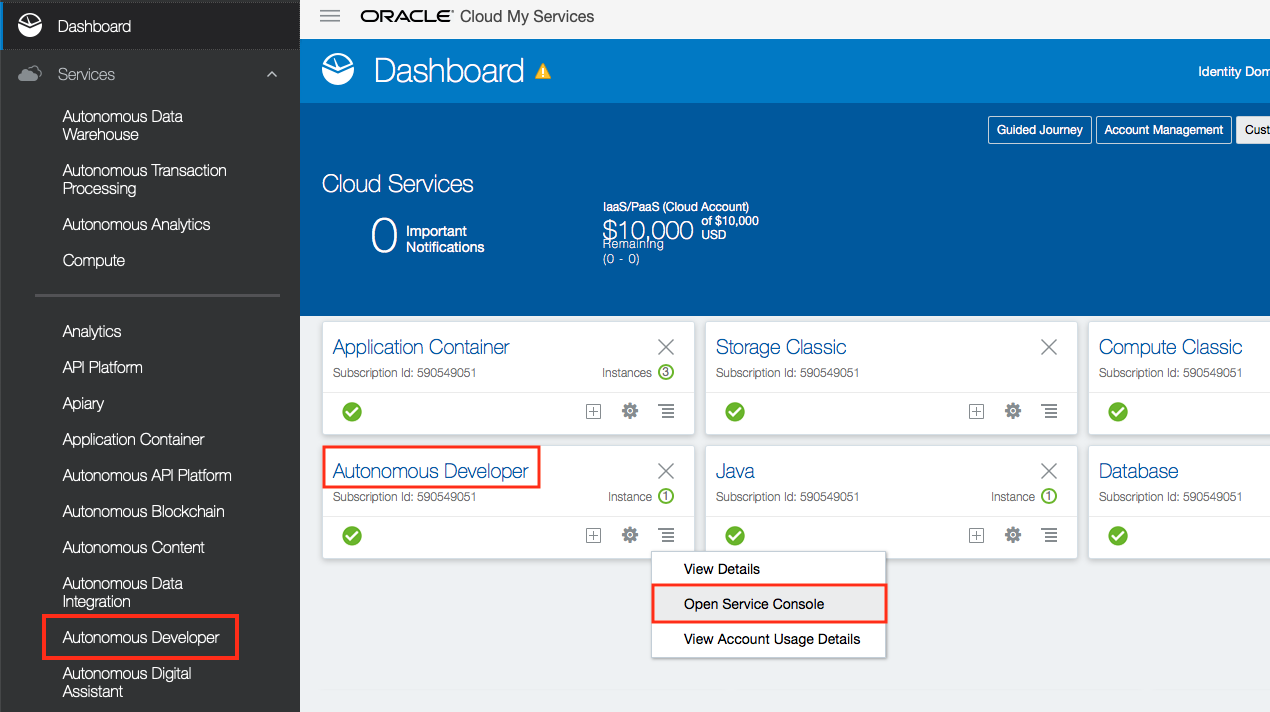
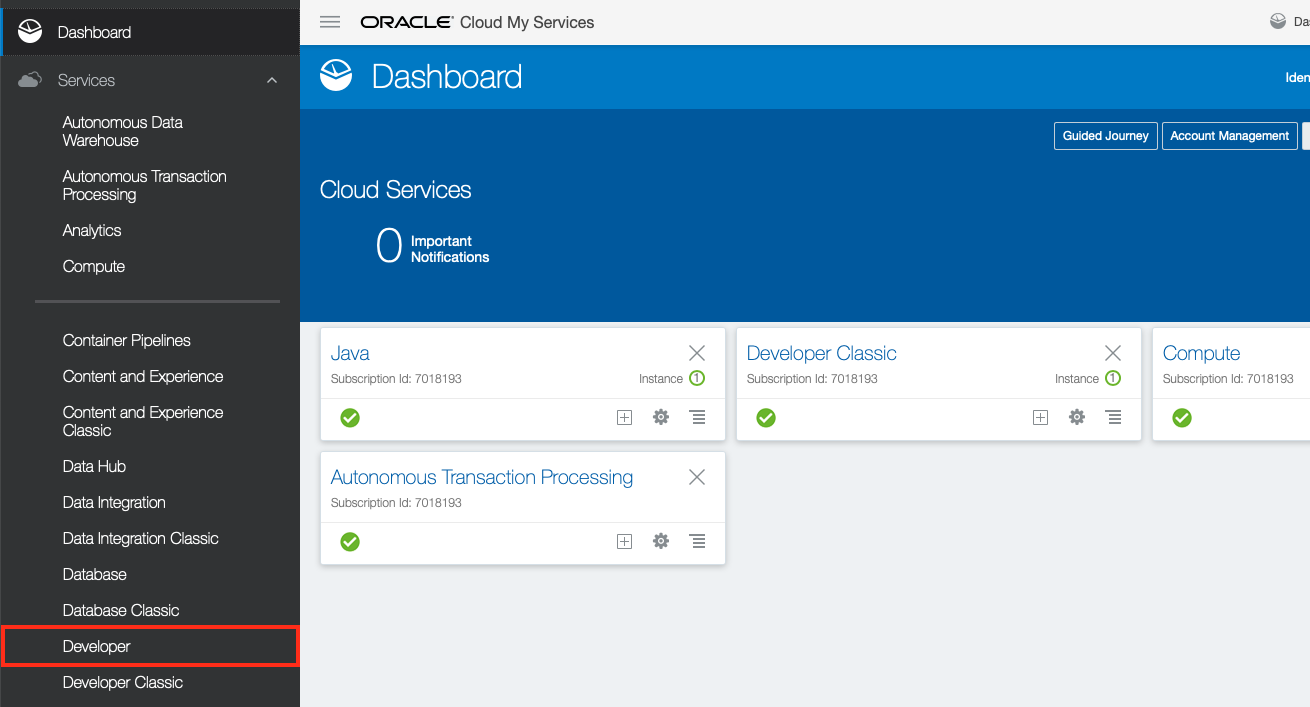
Updated DevCS provisioning for OCI Build VM

diff --git a/100-PREPARElab.md b/100-PREPARElab.md
@@ -204,70 +204,132 @@ When the request has been accepted, the Java Cloud Service Console page appears 
 
 ## Provision a Developer Cloud Service (DevCS)
 
-You have two choices for Developer Cloud Service:
+Like other Oracle Cloud services, you must create an instance of Developer Cloud Service (DevCS) before you can start using it. You can create only one instance in an identity domain.
 
-  - Traditional Developer Cloud Service
-  - Autonomous Developer Cloud Service
+There are two types of Developer Cloud Services on offer depending whether you are an Oracle Cloud Infrastructure (OCI) user or an Oracle Cloud Infrastructure Classic (OCI Classic) user. The two types of Developer Cloud Services are:
 
-It is recommended to use the Autonomous Developer Cloud Service as it offers a dedicated Build VM for your build jobs. This has significant performance improvement over the Traditional Developer Cloud Service and would result in much faster build time. The use of the Autonomous Developer Cloud Service is particularly important as one would see the full potential of our service and would bring out the key benefits in Continuous Integration and Continuous Delivery.
+  - Traditional Developer Cloud Service (OCI Classic)
+  - Autonomous Developer Cloud Service (OCI)
 
-Oracle Developer Cloud Build VMs runs on Oracle Linux 6 or Oracle Linux 7, and supports a variety of software such as Node.js, Docker, and Oracle SOA Suite. The platform and the software in Build VMs are defined by Build VM templates.
+For new Oracle Cloud accounts, user will be of type OCI and should use the Autonomous Developer Cloud Service. For this lab we will assume the participants is an OCI user and the instruction that follows is for the Autonomous Developer Cloud Service.
 
-Since the Build VM is Compute instance, this can be shared among developers. This mean we not required one dedicated Build VM for each developer or attendee. Only need a few Build VM to be shared across the project team or participants. Hence, we have already provisioned the Build VMs for you.
+The Autonomous Developer Cloud Service offers a dedicated Build VM running on OCI for your build jobs. This has significant performance improvement over the Traditional Developer Cloud Service and would result in much faster build time. Oracle Developer Cloud Build VMs runs on Oracle Linux 6 or Oracle Linux 7, and supports a variety of software such as Node.js, Docker, and Oracle SOA Suite. The platform and the software stack in Build VMs are defined by the Build VM templates.
+
+Since the Build VM is Compute instance, this can be shared among developers. This mean we do not require a dedicated Build VM for each developer or attendee as it can be shared among the team. For this workshop we would only require a few Build VMs to be shared across the participants. The Build VMs has been created for you and the instruction that follows is for your reference, unless told otherwise by your instructor.
 
 
 
-### **STEP 4**: Open the Autonomous Developer Cloud Console
+### **STEP 4**: Create a   Developer Cloud Instance
 
-- Ensure you are opening the Autonomous DevCS and NOT the Traditional DevCS
+- Go back to your Dashboard page.
 
-- On the dashboard click the hamburger icon on the **Autonomous Developer** tile. Select **Open Service Console** OR select from the expanded Dashboard menu on the left hand side.
+- If the Developer tile isn’t available on the Dashboard, expand the Dashboard menu on the left and select **Developer**
 
   ![](images/14.png)
 
+- In the Instances tab, click **Create Instance**.
+
+  ![](images/14.1.png)
+
+- On the **Create New Instance** page, enter the following details:
+
+  - **Instance Name**: `A unique name` to identify the service instance in the tenant domain.
+  - **Description**: `Enter a description`
+  - **Region**: `Select your region` from the dropdown list. Choose from us-ashburn-1, us-phoenix-1, us-frankfurt-1.
+
+  ![](images/14.2.png)
+
+- Click **Next**
+
+- On the Service Details page, click **Next**
+
+  ![](images/14.3.png)
+
+- On the Confirmation page, click **Create**
+
+- The DevCS **Organization** page opens showing your DevCS instance
 
 
-#### **STEP 4.1**: Create a VM Template
+**NOTE**: You have just created a DevCS instance.
+
+
+
+
+#### **STEP 4.1**: Setup The OCI Connection
+
+You need to connect to the Oracle Cloud Infrastructure Compute (OCI Compute) because they provide the virtual machines (VMs) on which DevCS runs its builds. You need to connect to Oracle Cloud Infrastructure Object Storage (OCI Object Storage) because they are used to store build and Maven artifacts for DevCS projects. It is assumed you are an OCI user and have the access rights to set up connections to OCI Compute and OCI Object Storage.
+
+- Once the service instance is created, you can open the service console by clicking the **Action menu icon**, and then selecting **Access Service Instance**.
+
+  ![](images/14.4.png)
+
+- The DevCS **Organization** page opens. Click the **OCI Credentials** to configure OCI connections before you create a project. You must be the Organization Administrator to create the connection.
+
+  ![](images/14.5.png)
+
+- Get the OCI input values from the your OCI Console and enter them in the following fields:
+
+  - **Tennacy OCID**: enter the tenancy's OCID copied from the Tenancy Details page
+  - **User OCID**: enter the user's OCID who can access the DevCS compartment
+  - **Home Region**: select the home region of the OCI account
+  - **Private Key**: enter the private key of the user who can access the DevCS compartment
+  - **Passphrase**: enter the passphrase used to encrypt the private key. If no passphrase was used, leave the field empty.
+  - **Fingerprint**: enter the fingerprint value of the private-public key pair
+  - **Compartment OCID**: enter the compartment's OCID copied from the Compartments page
+  - **Storage Namespace**: enter the storage namespace copied from the Tenancy Details page
+  - **Developer Cloud Service ...**: select the checkbox to agree to terms and conditions
+
+  ![](images/14.6.png)
+
+- Click **Validate**
+
+- After validating the connection details, click **Save**
+
+
+
+#### **STEP 4.2**: Create a VM Template
+
+A Build Virtual Machine (VM) is an OCI Compute VM that runs builds of jobs defined in the DevCS projects. A Build VM Template defines the operating system and the software installed on Build VMs.
+
+When you configure a job to use a software, such as Node.js or Docker, you must create a Build VM template with the software and associate the job with that template. When a job’s build runs, it doesn’t run in DevCS, but on a VM of OCI Compute, as configured in the previous step.
+
+To get started, you first create Build VM templates with different software that your team members regularly use. After creating the templates, you allocate some Build VMs to each Build VM template. When your team members create jobs, they associate the job with a Build VM template.
+
+When a job’s build runs, a Build VM allocated for the job’s Build VM template starts. It first installs the software defined in the Build VM template. After installing the software, it clones the job’s Git repository (if configured) to the VM, and creates artifacts (again, if configured). After the build is complete, the artifacts are copied to the OCI Object Storage. The Build VM waits for some time for any queued builds. If no builds run in the wait time period, the Build VM stops. Each time the Build VM starts, the software are installed again and the first build of the VM would take more time to run.
 
 In this section, you learn how to create a basic Build VM template that includes the minimum required software.
 
-- Select **Organization** from the user name dropdown options
+- Select the **Virtual Machines Templates** tab from the **Organization** page
 
   ![](images/15.png)
 
-- Click **VM TEMPLATES** on the Organization Administration page
+- Click **Create**
 
-  ![](images/16.png)
+- On the pop up **New VM Template** dialog box enter the following:
 
-- Click **New Template** in the Build VM Templates page
-
-  ![](images/79.png)
-
-- In the New VM Template dialog box, enter the following details:
-
-  - **Name**: `Your Name` enter your name
+  - **Name**: `CafeSupremo`
   - **Description**: `A Build VM template with minimum required software`
   - **Platform**: `Oracle Linux 7`
 
-    ![](images/20.png)
+  ![](images/16.png)
 
 - Click **Create**
 
-A Build VM template with your name **Your Name** is created. It includes just the required Build VM components. The right side of the page displays the details for this Build VM.
+**NOTE**: You have created a Build VM Template with the minimal build components.
 
 
 
-#### **STEP 4.2**: Configure the Software of a Build VM Template
+#### **STEP 4.3**: Configure the Software of a Build VM Template
 
-The VM template contains the minimum software required to run basic builds. We need to add additional software to the template in order to build our JET UI frontend.
+The VM template contains the minimum software required to run basic builds. We need to add additional software to the template in order to build our JET UI frontend. The additional components are Grandle and Node.js.
 
-  - In the **Build VM Templates** tab, select the template you just created.
+  - Select the `CafeSupremo` template you just created under the **Virtual Machines Templates** tab
 
-  - On the right side of the page, click **Configue Software**
+  - Click **Configue Software**
 
   ![](images/17.png)
 
-  - Select **Gradle 4** from the list of software by clicking the **Add** `+` icon on that tile.
+  - Select **Gradle 4** and **Node.js 6** from the list of software by clicking the **Add +** icon on that tile.
 
   ![](images/18.png)
 
@@ -276,53 +338,8 @@ The VM template contains the minimum software required to run basic builds. We n
     ![](images/19.png)
 
 
-**NOTE**: You have just created your template. However, we won't be using this as the instructor has already created one earlier named **CafeSupremo** and assigned it to a number of Build VMs. You may explore the CafeSupremo Build VM Template and the configured software packages should be the same as the template you just created.
+**NOTE**: You have just created a Build VM Template.
 
-
-#### **STEP 4.3**: Configure a Compute Account for Build VMs
-
-**This step is Optional**
-
-**You will be advised by you instructor**
-
-DevCS project builds run on OCI Compute Classic virtual machines (VMs). Before you can use DevCS on Oracle Cloud Infrastructure or Oracle Cloud Infrastructure Classic, you must configure a connection to OCI Compute Classic.
-
-To create the connection, you need the service ID and the REST Endpoint URL for OCI Compute Classic, plus the credentials of a user.
-
-**NOTE**: This may have already been configured for you.
-
-- In another browser tab or window, open Oracle Cloud Dashboard
-
-- In the **Compute Classic** tile, click the hamburger icon, and select **View Details**
-
-  ![](images/80.png)
-
-- On the Service Details page, in the Additional Information section of the Overview tab, note the values of **Service Instance ID** and **REST Endpoint**
-
-  ![](images/81.png)
-
-- Go back to the Developer Cloud Service Organization Administration Page
-
-- Select **VIRTUAL MACHINES**
-
-  ![](images/21.png)
-
-- On the Virtual Machine page, click **Configure Compute Account**
-
-  ![](images/22.png)
-
-- In the Configure Compute Account dialog box, enter the following values:
-
-  - **Username**: Your Cloud Username
-  - **Password**: Your Cloud User Password
-  - **Service Instance ID**: *ID assigned to the Oracle Cloud Infrastructure Compute Classic instance* (The value must match the Service Instance ID field that appears on the Oracle Cloud Infrastructure Compute Classic Service Details page.)
-  - **REST Endpoint**: *REST API endpoint URL for the Oracle Cloud Infrastructure Compute Classic instance* (The value must match the REST Endpoint field that appears on the Oracle Cloud Infrastructure Compute Classic Service Details page.)
-
-  ![](images/23.png)
-
-- Click on **Save**
-
-*You have now set a Compute Account to use the Oracle Cloud Infrastructure Compute Classic*
 
 
 #### **STEP 4.4**: Create a Virtual Machine for Build and Develop
@@ -331,25 +348,43 @@ To create the connection, you need the service ID and the REST Endpoint URL for 
 
 **You will be advised by you instructor**
 
-When you add a Build VM, you allocate a VM on the linked Oracle Cloud Infrastructure Compute Classic service to be used to run builds of jobs. Each build runs in one build executor, or one VM. You can build up to 99 builds in parallel using the same Build VM template.
+When you add a Build VM, you allocate a VM on the linked Oracle Cloud Infrastructure Compute service to be used to run builds of jobs. Each build runs in one build VM. You can build up to 99 builds in parallel using the same Build VM template.
 
-If you have multiple jobs across projects using a common Build VM template, you assign multiple Build VMs of that template. When builds of those jobs run, DevCS picks a VM that’s available without waiting for a busy VM to get free.
+If you have multiple jobs across projects using a common Build VM template, you can assign multiple Build VMs of that template. When builds of those jobs run, DevCS picks a VM that’s available without waiting for a busy VM to get free.
 
-- Click **New VM**
+- Select the **Build Virtual Machines** tab
 
-  ![](images/24.png)
+  ![](images/20.png)
 
-- In the Add Build VM dialog box, in Quantity, specify the number of VMs you want to allocate. In VM Template, select the Build VM template.
+- Click **Create**
 
-  ![](images/135.png)
+- On the pop up **Add Build VM** dialog box enter the following:
+
+  - **Quantity**: `1`
+  - **VM Template**: select `CafeSupremo` from dropdown list
+
+  ![](images/21.png)
+
+- Click **Add**
 
 - The newly created Build VM should be in the stopped state.
 
-    ![](images/136.png)
+  ![](images/22.png)
+
+  To minimise build execution delays, set the number of VMs of a specific Build VM template to the number of jobs that you expect to run in parallel using that template. If the VM quota is available, that number of Build VMs will be added to the Build Virtual Machines tab.
+
+  You can always return to the Build Virtual Machines tab to add or remove VMs, based on your actual usage. Note that the more VMs you have running at a specific time, the higher the cost. To minimise the higher cost, use the **Sleep Timeout** setting on the **Build Virtual Machines** page to automatically shut down inactive VMs.
+
+- Click **Sleep Timeout**
+
+  ![](images/23.png)
+
+- Increase the **Sleep Timeout** value to `1500` minutes
+
+- Click **Save**
 
 
-*You have now created a Build VM for for your build jobs.*
-
+**NOTE**: You have now created a Build VM for for your build jobs.
 
 
 
